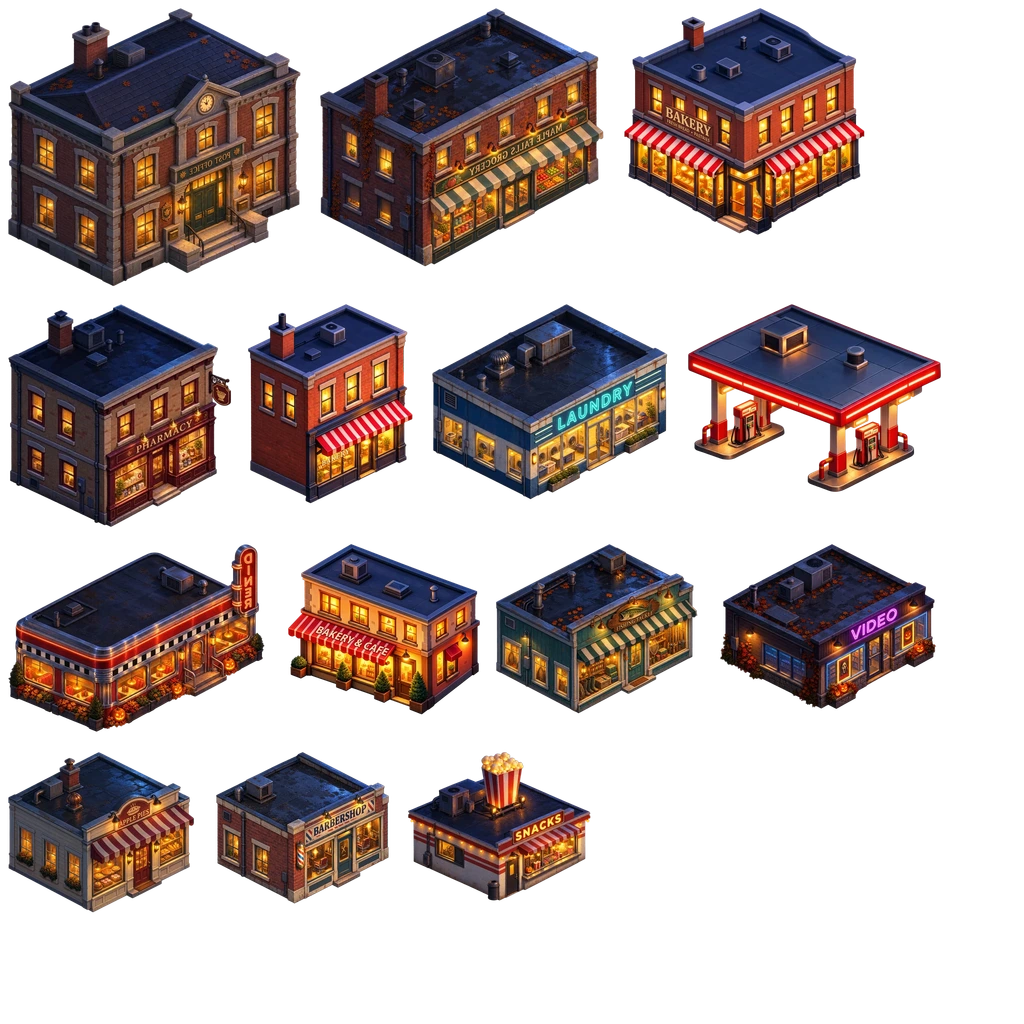
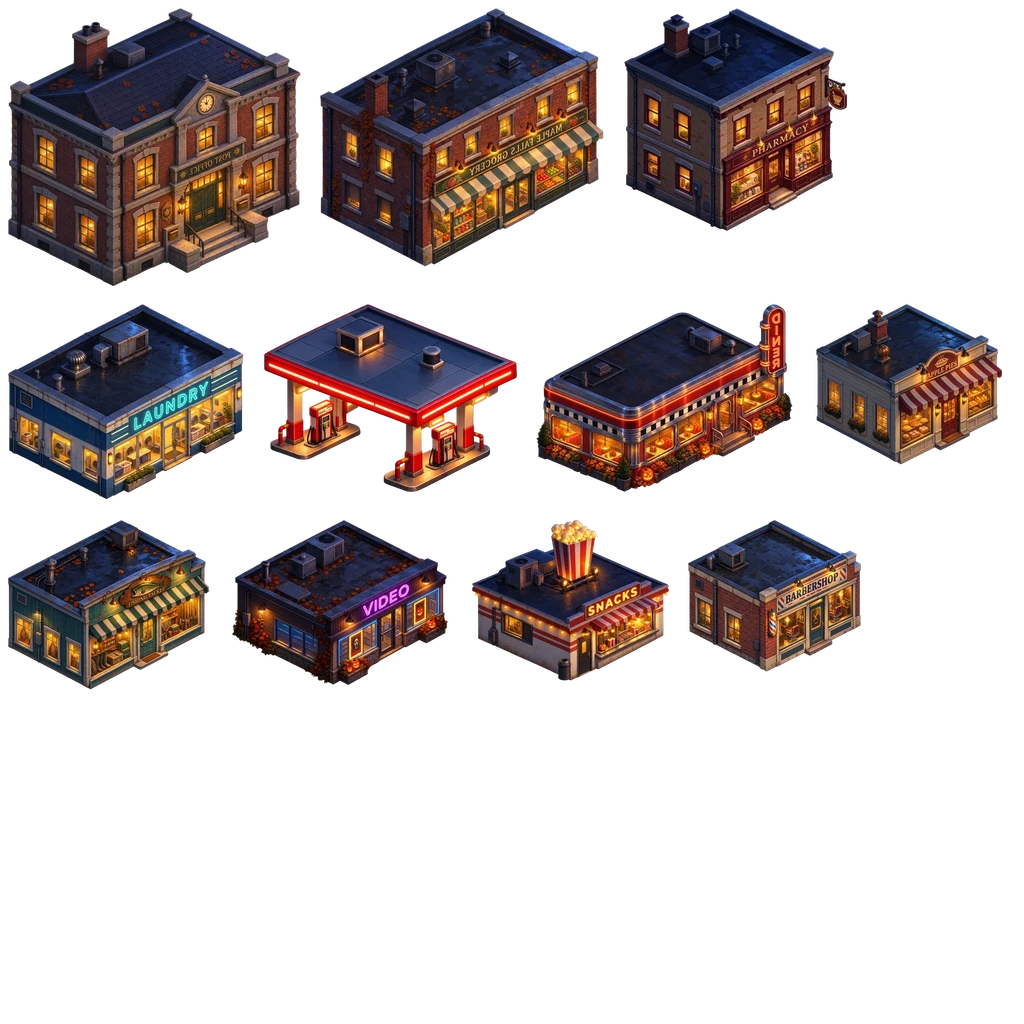
East-facing art re-packed at the owner's new sizes, without the fronts removed in the studio; compose digests re-pinned for the curation

diff --git a/src/game/east-library.ts b/src/game/east-library.ts
@@ -1,34 +1,31 @@
 // Generated by scripts/assets/prep-east.mjs. Source images are retained in art/east-facing.
 import type { LibItem } from './types';
+import { REMOVED_IDS } from './lots/scales';
+const removed = new Set(REMOVED_IDS);
 import e0m0 from '../assets/east/east-0-0.webp';
 import e0m1 from '../assets/east/east-0-1.webp';
 import e0m2 from '../assets/east/east-0-2.webp';
 import e0m3 from '../assets/east/east-0-3.webp';
 import e0m4 from '../assets/east/east-0-4.webp';
-import { REMOVED_IDS } from './lots/scales';
-const removed = new Set(REMOVED_IDS);
 const PAGES: string[][] = [[e0m0, e0m1, e0m2, e0m3, e0m4]];
 const ITEMS: LibItem[] = [
-  {"id":"east:ref:building-corner-shop","name":"Corner Shop (east)","cat":"Shops & services","kind":"venue","w":469.6,"h":443.5,"ax":234.8,"ay":330.7,"boxes":[{"hx":3.03,"hy":3.92,"dx":-0.15,"dy":-0.05}],"solid":2,"big":true,"door":true,"cost":29600,"glows":[{"x":352.5,"y":316.5,"r":30},{"x":397.6,"y":297.4,"r":33},{"x":267,"y":237.4,"r":36},{"x":95.4,"y":335.2,"r":34.5},{"x":224.8,"y":256.6,"r":34.5},{"x":356.3,"y":193.1,"r":33},{"x":47.2,"y":203.6,"r":31.5},{"x":93.4,"y":224.3,"r":31.5},{"x":310.4,"y":208.8,"r":27},{"x":203.1,"y":357.8,"r":30},{"x":146.7,"y":242.5,"r":22.5},{"x":48.2,"y":306,"r":24},{"x":304.7,"y":333.9,"r":19.5},{"x":146.8,"y":349.6,"r":22.5},{"x":401.1,"y":164.8,"r":25.5},{"x":431.9,"y":277.5,"r":28.5},{"x":277.3,"y":346.5,"r":31.5},{"x":244.3,"y":348.5,"r":16.5},{"x":241.6,"y":319.2,"r":16.5},{"x":244.3,"y":414.5,"r":22.5},{"x":255.8,"y":421.3,"r":24},{"x":351.2,"y":348.2,"r":21},{"x":364.8,"y":267.7,"r":12},{"x":420.5,"y":241.8,"r":12},{"x":438.8,"y":233.1,"r":12},{"x":346.1,"y":277.4,"r":12},{"x":327.1,"y":286.6,"r":10.5},{"x":314.8,"y":241.1,"r":15},{"x":401.9,"y":250.2,"r":10.5},{"x":383.6,"y":259.3,"r":12},{"x":309.3,"y":295.9,"r":10.5},{"x":291.1,"y":305.8,"r":10.5},{"x":455,"y":225.5,"r":12},{"x":305.8,"y":371.5,"r":13.5},{"x":205.3,"y":405.3,"r":13.5},{"x":236.9,"y":373.6,"r":13.5},{"x":240.7,"y":393.4,"r":10.5},{"x":144.7,"y":275.4,"r":13.5},{"x":403,"y":196.3,"r":12},{"x":46.2,"y":344,"r":12},{"x":146.6,"y":391.1,"r":12},{"x":208.1,"y":215.6,"r":9},{"x":303.9,"y":355.6,"r":4.5},{"x":276.7,"y":311.8,"r":4.5},{"x":150,"y":383.8,"r":7.5},{"x":55.5,"y":340.6,"r":3},{"x":252.1,"y":190.5,"r":3},{"x":201,"y":226.5,"r":3}],"tex":[0,0.609375,0.007813,0.844238,0.229492],"quad":[-0.24,0,469.6,443.47]},
-  {"id":"east:ref:building-corner-store","name":"Corner Store (east)","cat":"Shops & services","kind":"venue","w":405.5,"h":359.7,"ax":202.7,"ay":262.9,"boxes":[{"hx":4.18,"hy":1.81,"dx":-0.09,"dy":-0.13}],"solid":2,"big":true,"door":true,"cost":24080,"glows":[{"x":177.4,"y":210.7,"r":145.5},{"x":63.1,"y":110.4,"r":39},{"x":90.4,"y":130,"r":24},{"x":370.2,"y":215.2,"r":28.5},{"x":151.8,"y":150.2,"r":24},{"x":210.5,"y":171.7,"r":22.5},{"x":320.9,"y":253.8,"r":30},{"x":323.2,"y":182,"r":18},{"x":363.8,"y":157.4,"r":18},{"x":239.7,"y":329.7,"r":18},{"x":81.7,"y":266.7,"r":25.5},{"x":341,"y":256.5,"r":13.5},{"x":374.3,"y":149.3,"r":15},{"x":47,"y":229.5,"r":13.5},{"x":344.3,"y":279.5,"r":9},{"x":335,"y":171,"r":12},{"x":32.9,"y":248.4,"r":6},{"x":344,"y":236.1,"r":7.5},{"x":153.5,"y":186,"r":6},{"x":210.5,"y":200.3,"r":6},{"x":219.5,"y":306,"r":3},{"x":305,"y":106.5,"r":4.5},{"x":318,"y":290.5,"r":3},{"x":303.5,"y":93,"r":3},{"x":165.5,"y":184.5,"r":3},{"x":47,"y":210,"r":3},{"x":291.5,"y":238.5,"r":3},{"x":69.5,"y":255,"r":3},{"x":33.5,"y":264,"r":3},{"x":123.5,"y":294,"r":3},{"x":257,"y":309,"r":3},{"x":183.5,"y":310.5,"r":3},{"x":116,"y":37.5,"r":3},{"x":38,"y":127.5,"r":3},{"x":293,"y":187.5,"r":3},{"x":176,"y":193.5,"r":3},{"x":221,"y":220.5,"r":3},{"x":356,"y":232.5,"r":3},{"x":350,"y":268.5,"r":3},{"x":233,"y":286.5,"r":3},{"x":131,"y":289.5,"r":3},{"x":221,"y":295.5,"r":3},{"x":203,"y":316.5,"r":3}],"tex":[0,0.28125,0.53125,0.46875,0.697754],"quad":[0.5,0,405.5,359.65]},
-  {"id":"east:ref:building-gas-canopy","name":"Gas Canopy (east)","cat":"Shops & services","kind":"building","w":405.3,"h":301.8,"ax":202.7,"ay":205.2,"boxes":[{"hx":3.41,"hy":1.9,"dx":0,"dy":0.5}],"solid":2,"big":true,"door":false,"cost":22690,"glows":[{"x":315.4,"y":159.6,"r":78},{"x":128.2,"y":141.9,"r":116.9},{"x":84.7,"y":224.5,"r":54},{"x":96.7,"y":173.9,"r":31.5},{"x":261.4,"y":267.2,"r":25.5},{"x":171.3,"y":60.3,"r":22.5},{"x":244.3,"y":225,"r":36},{"x":56.6,"y":154,"r":24},{"x":317.6,"y":250.2,"r":25.5},{"x":296.4,"y":235.4,"r":13.5},{"x":51.8,"y":200.2,"r":18},{"x":200.8,"y":273.1,"r":9},{"x":135.9,"y":161.9,"r":6},{"x":222.1,"y":251.6,"r":6},{"x":129.4,"y":72,"r":6},{"x":279.4,"y":226.4,"r":4.5},{"x":221.6,"y":261.6,"r":4.5},{"x":225.4,"y":290.9,"r":6},{"x":83,"y":113.4,"r":4.5},{"x":32,"y":197.4,"r":4.5},{"x":343.8,"y":209.4,"r":4.5},{"x":289.9,"y":247.4,"r":4.5},{"x":141.4,"y":76.5,"r":3},{"x":42.5,"y":97.5,"r":3},{"x":72.5,"y":109.4,"r":3},{"x":26,"y":91.5,"r":3},{"x":35,"y":94.5,"r":3},{"x":397.8,"y":97.5,"r":3},{"x":388.8,"y":100.5,"r":3},{"x":50,"y":100.5,"r":3},{"x":59,"y":103.4,"r":3},{"x":65,"y":106.4,"r":3},{"x":106.9,"y":193.4,"r":3},{"x":124.9,"y":196.4,"r":3},{"x":118.9,"y":199.4,"r":3},{"x":109.9,"y":205.4,"r":3},{"x":247.9,"y":268.4,"r":3}],"tex":[0,0.671875,0.296875,0.918945,0.480469],"quad":[-0.34,0,405.3,301.43]},
-  {"id":"east:ref:building-grocery","name":"Grocery (east)","cat":"Shops & services","kind":"venue","w":534.5,"h":647.7,"ax":267.3,"ay":518.5,"boxes":[{"hx":2.96,"hy":5,"dx":-0.09,"dy":-0.18}],"solid":2,"big":true,"door":true,"cost":33340,"glows":[{"x":346.5,"y":266.6,"r":114},{"x":427.5,"y":402.8,"r":55.5},{"x":293.8,"y":465.1,"r":61.5},{"x":366.6,"y":454.9,"r":58.5},{"x":217.6,"y":337,"r":54},{"x":242.8,"y":505,"r":27},{"x":139.1,"y":319.5,"r":42},{"x":467.1,"y":365.3,"r":27},{"x":68.2,"y":290.6,"r":34.5},{"x":358.4,"y":408.6,"r":21},{"x":432.9,"y":282.8,"r":30},{"x":486.3,"y":351.2,"r":21},{"x":495.2,"y":230.8,"r":28.5},{"x":508.7,"y":341.2,"r":21},{"x":438.6,"y":473.2,"r":25.5},{"x":386.6,"y":548.6,"r":25.5},{"x":325.7,"y":529.7,"r":18},{"x":341.3,"y":166,"r":34.5},{"x":294.5,"y":559.5,"r":57},{"x":282.9,"y":526,"r":15},{"x":320.5,"y":195.2,"r":27},{"x":250.4,"y":542.9,"r":15},{"x":303.7,"y":266.4,"r":10.5},{"x":284.7,"y":550.9,"r":15},{"x":467.6,"y":238.6,"r":15},{"x":245,"y":572.8,"r":19.5},{"x":378.5,"y":351,"r":24},{"x":316.4,"y":513.4,"r":7.5},{"x":409.5,"y":459.8,"r":16.5},{"x":394.5,"y":160.5,"r":15},{"x":514.4,"y":372,"r":6},{"x":253,"y":227.5,"r":12},{"x":440,"y":489.8,"r":13.5},{"x":379.6,"y":214.1,"r":7.5},{"x":228.1,"y":469.1,"r":7.5},{"x":278,"y":215.4,"r":10.5},{"x":303.3,"y":236.8,"r":7.5},{"x":438,"y":141,"r":7.5},{"x":394,"y":199.5,"r":4.5},{"x":384.5,"y":202.5,"r":4.5},{"x":132.5,"y":373.5,"r":9},{"x":289.4,"y":189.9,"r":4.5},{"x":511.2,"y":95.3,"r":4.5},{"x":342.5,"y":195,"r":6},{"x":294.5,"y":253.5,"r":4.5},{"x":210.5,"y":267,"r":3},{"x":387.5,"y":327,"r":6},{"x":205.2,"y":392.3,"r":4.5}],"tex":[0,0.242188,0.296875,0.402832,0.491699],"quad":[-0.02,0,534.5,648.24]},
-  {"id":"east:town:bakery","name":"Rose's Bakery (east)","cat":"Shops & services","kind":"venue","w":396.6,"h":342.3,"ax":194.4,"ay":224.5,"boxes":[{"hx":2.71,"hy":3.12,"dx":0.64,"dy":0.64}],"solid":2,"big":true,"door":true,"cost":25220,"glows":[{"x":304.9,"y":127.4,"r":39},{"x":330.8,"y":207.1,"r":30},{"x":222.7,"y":162.2,"r":24},{"x":217.2,"y":289,"r":43.5},{"x":258.5,"y":239.3,"r":21},{"x":343.7,"y":234.4,"r":37.5},{"x":221.8,"y":252.5,"r":16.5},{"x":144.1,"y":251.7,"r":13.5},{"x":178.1,"y":272,"r":19.5},{"x":195.1,"y":264.2,"r":9},{"x":334.7,"y":136.7,"r":9},{"x":96.2,"y":225.2,"r":7.5},{"x":229.3,"y":265.8,"r":10.5},{"x":39.4,"y":193.8,"r":7.5},{"x":236.1,"y":132.9,"r":7.5},{"x":277.2,"y":235,"r":7.5},{"x":216.6,"y":241,"r":6},{"x":272.4,"y":123,"r":6},{"x":219.6,"y":313.6,"r":12},{"x":380.1,"y":190.5,"r":10.5},{"x":356.1,"y":252.7,"r":10.5},{"x":191,"y":327.7,"r":10.5},{"x":192.5,"y":251.6,"r":6},{"x":192.5,"y":279.6,"r":6},{"x":261.1,"y":292.1,"r":6},{"x":277.5,"y":216.4,"r":4.5},{"x":149.8,"y":97.5,"r":4.5},{"x":249.6,"y":117,"r":6},{"x":271.3,"y":143.3,"r":4.5},{"x":370.3,"y":177.8,"r":4.5},{"x":290.1,"y":228.8,"r":4.5},{"x":333.6,"y":264.1,"r":6},{"x":315.6,"y":268.6,"r":6},{"x":240.6,"y":303.1,"r":6},{"x":173,"y":314.6,"r":4.5},{"x":255.6,"y":147,"r":3},{"x":255.6,"y":157.5,"r":3},{"x":371.1,"y":192,"r":3},{"x":45.5,"y":210.1,"r":3},{"x":342.6,"y":223.6,"r":3},{"x":330.6,"y":229.6,"r":3},{"x":276.6,"y":250.6,"r":3},{"x":137,"y":22.5,"r":3},{"x":65,"y":88.5,"r":3},{"x":269.1,"y":91.5,"r":3},{"x":365.1,"y":112.5,"r":3},{"x":263.1,"y":121.5,"r":3},{"x":263.1,"y":127.5,"r":3}],"tex":[0,0.007813,0.734375,0.189453,0.891113],"quad":[-0.49,0,396.6,342.65]},
-  {"id":"east:town:barber","name":"Clip Joint Barbers (east)","cat":"Shops & services","kind":"venue","w":389.8,"h":341.2,"ax":194.7,"ay":216.3,"boxes":[{"hx":2.62,"hy":3.2,"dx":0.86,"dy":0.83}],"solid":2,"big":true,"door":true,"cost":25130,"glows":[{"x":280.3,"y":149.4,"r":75},{"x":223.5,"y":222.1,"r":61.5},{"x":331.6,"y":164.3,"r":34.5},{"x":322.1,"y":230.6,"r":36},{"x":268.2,"y":250,"r":40.5},{"x":235.7,"y":278.8,"r":28.5},{"x":107.6,"y":236,"r":10.5},{"x":46.3,"y":210.2,"r":18},{"x":265.6,"y":131.9,"r":19.5},{"x":101.2,"y":275.1,"r":15},{"x":297.7,"y":210.5,"r":18},{"x":201,"y":195.7,"r":12},{"x":289.1,"y":288.2,"r":15},{"x":36.2,"y":243.4,"r":12},{"x":182.4,"y":315.3,"r":7.5},{"x":179,"y":179.8,"r":6},{"x":288.2,"y":216.5,"r":9},{"x":252.8,"y":298.3,"r":7.5},{"x":236.6,"y":307,"r":7.5},{"x":271.7,"y":83.2,"r":6},{"x":364.3,"y":152.9,"r":6},{"x":323.5,"y":206.5,"r":6},{"x":287.9,"y":241,"r":12},{"x":332.6,"y":100.9,"r":6},{"x":253.4,"y":217.9,"r":4.5},{"x":373.3,"y":178.4,"r":7.5},{"x":337.3,"y":194.6,"r":7.5},{"x":85.5,"y":232.4,"r":7.5},{"x":241.4,"y":239,"r":7.5},{"x":230,"y":251,"r":4.5},{"x":292.3,"y":276.4,"r":4.5},{"x":295.3,"y":146.9,"r":3},{"x":320.8,"y":194.9,"r":3},{"x":326.8,"y":226.4,"r":3},{"x":113.9,"y":253.4,"r":3},{"x":194.9,"y":304.3,"r":3},{"x":196.4,"y":314.8,"r":3},{"x":218.9,"y":316.3,"r":3},{"x":292.3,"y":91.5,"r":3},{"x":373.3,"y":196.4,"r":3},{"x":286.4,"y":199.4,"r":3},{"x":361.3,"y":217.4,"r":3},{"x":175.4,"y":229.4,"r":3},{"x":286.4,"y":232.4,"r":3},{"x":223.4,"y":247.4,"r":3},{"x":301.3,"y":271.4,"r":3},{"x":109.4,"y":271.4,"r":3},{"x":277.4,"y":283.4,"r":3}],"tex":[0,0.210938,0.734375,0.379883,0.882324],"quad":[0.29,0,389.8,341.1]},
-  {"id":"east:town:fish_tackle","name":"Pike & Pine Outfitters (east)","cat":"Shops & services","kind":"venue","w":462.2,"h":389.5,"ax":226.6,"ay":257.2,"boxes":[{"hx":2.85,"hy":3.94,"dx":0.58,"dy":0.61}],"solid":2,"big":true,"door":true,"cost":28770,"glows":[{"x":249.8,"y":328.4,"r":60},{"x":34.3,"y":254.9,"r":34.5},{"x":393.5,"y":263.9,"r":46.5},{"x":320.8,"y":245,"r":19.5},{"x":99.4,"y":278.2,"r":22.5},{"x":254.7,"y":229.1,"r":16.5},{"x":419.5,"y":192.2,"r":13.5},{"x":149.1,"y":304.4,"r":21},{"x":410.3,"y":156.9,"r":16.5},{"x":389.9,"y":168.4,"r":15},{"x":280.7,"y":220.6,"r":16.5},{"x":233.1,"y":242.2,"r":13.5},{"x":278.5,"y":271.3,"r":21},{"x":336.3,"y":317.2,"r":31.5},{"x":310.6,"y":167.6,"r":27},{"x":327.6,"y":198,"r":15},{"x":319.1,"y":142.5,"r":15},{"x":304.9,"y":209.9,"r":13.5},{"x":370.1,"y":179.7,"r":13.5},{"x":350.4,"y":189.8,"r":13.5},{"x":393.2,"y":130.8,"r":15},{"x":242,"y":199.6,"r":13.5},{"x":196.9,"y":295.3,"r":16.5},{"x":247.5,"y":310,"r":15},{"x":361.5,"y":227.6,"r":13.5},{"x":442.7,"y":205.6,"r":28.5},{"x":100.9,"y":318.3,"r":12},{"x":151,"y":343.1,"r":10.5},{"x":436.7,"y":204.1,"r":24},{"x":69.5,"y":220.6,"r":12},{"x":264.1,"y":280.6,"r":9},{"x":216.7,"y":261.2,"r":7.5},{"x":381.7,"y":243.4,"r":7.5},{"x":320.5,"y":277,"r":10.5},{"x":231.4,"y":284.5,"r":10.5},{"x":432.7,"y":155.2,"r":12},{"x":372.5,"y":209.3,"r":10.5},{"x":53.8,"y":229.6,"r":7.5},{"x":257.1,"y":265.1,"r":4.5},{"x":91.5,"y":247,"r":7.5},{"x":298.6,"y":280.6,"r":7.5},{"x":282.9,"y":74.3,"r":4.5},{"x":384.9,"y":217.6,"r":4.5},{"x":70.5,"y":261.1,"r":4.5},{"x":270.1,"y":297.1,"r":6},{"x":343.6,"y":241.6,"r":4.5},{"x":361.7,"y":252.6,"r":4.5},{"x":316.6,"y":314.6,"r":4.5}],"tex":[0,0.484375,0.53125,0.681152,0.696777],"quad":[-0.33,0,462.2,389.08]},
+  {"id":"east:ref:building-gas-canopy","name":"Gas Canopy (east)","cat":"Shops & services","kind":"building","w":405.3,"h":301.8,"ax":202.7,"ay":205.2,"boxes":[{"hx":3.41,"hy":1.9,"dx":0,"dy":0.5}],"solid":2,"big":true,"door":false,"cost":22690,"glows":[{"x":315.4,"y":159.6,"r":78},{"x":128.2,"y":141.9,"r":116.9},{"x":84.7,"y":224.5,"r":54},{"x":96.7,"y":173.9,"r":31.5},{"x":261.4,"y":267.2,"r":25.5},{"x":171.3,"y":60.3,"r":22.5},{"x":244.3,"y":225,"r":36},{"x":56.6,"y":154,"r":24},{"x":317.6,"y":250.2,"r":25.5},{"x":296.4,"y":235.4,"r":13.5},{"x":51.8,"y":200.2,"r":18},{"x":200.8,"y":273.1,"r":9},{"x":135.9,"y":161.9,"r":6},{"x":222.1,"y":251.6,"r":6},{"x":129.4,"y":72,"r":6},{"x":279.4,"y":226.4,"r":4.5},{"x":221.6,"y":261.6,"r":4.5},{"x":225.4,"y":290.9,"r":6},{"x":83,"y":113.4,"r":4.5},{"x":32,"y":197.4,"r":4.5},{"x":343.8,"y":209.4,"r":4.5},{"x":289.9,"y":247.4,"r":4.5},{"x":141.4,"y":76.5,"r":3},{"x":42.5,"y":97.5,"r":3},{"x":72.5,"y":109.4,"r":3},{"x":26,"y":91.5,"r":3},{"x":35,"y":94.5,"r":3},{"x":397.8,"y":97.5,"r":3},{"x":388.8,"y":100.5,"r":3},{"x":50,"y":100.5,"r":3},{"x":59,"y":103.4,"r":3},{"x":65,"y":106.4,"r":3},{"x":106.9,"y":193.4,"r":3},{"x":124.9,"y":196.4,"r":3},{"x":118.9,"y":199.4,"r":3},{"x":109.9,"y":205.4,"r":3},{"x":247.9,"y":268.4,"r":3}],"tex":[0,0.257813,0.296875,0.504883,0.480469],"quad":[-0.34,0,405.3,301.43]},
+  {"id":"east:town:bakery","name":"Rose's Bakery (east)","cat":"Shops & services","kind":"venue","w":396.6,"h":342.3,"ax":194.4,"ay":224.5,"boxes":[{"hx":2.71,"hy":3.12,"dx":0.64,"dy":0.64}],"solid":2,"big":true,"door":true,"cost":25220,"glows":[{"x":304.9,"y":127.4,"r":39},{"x":330.8,"y":207.1,"r":30},{"x":222.7,"y":162.2,"r":24},{"x":217.2,"y":289,"r":43.5},{"x":258.5,"y":239.3,"r":21},{"x":343.7,"y":234.4,"r":37.5},{"x":221.8,"y":252.5,"r":16.5},{"x":144.1,"y":251.7,"r":13.5},{"x":178.1,"y":272,"r":19.5},{"x":195.1,"y":264.2,"r":9},{"x":334.7,"y":136.7,"r":9},{"x":96.2,"y":225.2,"r":7.5},{"x":229.3,"y":265.8,"r":10.5},{"x":39.4,"y":193.8,"r":7.5},{"x":236.1,"y":132.9,"r":7.5},{"x":277.2,"y":235,"r":7.5},{"x":216.6,"y":241,"r":6},{"x":272.4,"y":123,"r":6},{"x":219.6,"y":313.6,"r":12},{"x":380.1,"y":190.5,"r":10.5},{"x":356.1,"y":252.7,"r":10.5},{"x":191,"y":327.7,"r":10.5},{"x":192.5,"y":251.6,"r":6},{"x":192.5,"y":279.6,"r":6},{"x":261.1,"y":292.1,"r":6},{"x":277.5,"y":216.4,"r":4.5},{"x":149.8,"y":97.5,"r":4.5},{"x":249.6,"y":117,"r":6},{"x":271.3,"y":143.3,"r":4.5},{"x":370.3,"y":177.8,"r":4.5},{"x":290.1,"y":228.8,"r":4.5},{"x":333.6,"y":264.1,"r":6},{"x":315.6,"y":268.6,"r":6},{"x":240.6,"y":303.1,"r":6},{"x":173,"y":314.6,"r":4.5},{"x":255.6,"y":147,"r":3},{"x":255.6,"y":157.5,"r":3},{"x":371.1,"y":192,"r":3},{"x":45.5,"y":210.1,"r":3},{"x":342.6,"y":223.6,"r":3},{"x":330.6,"y":229.6,"r":3},{"x":276.6,"y":250.6,"r":3},{"x":137,"y":22.5,"r":3},{"x":65,"y":88.5,"r":3},{"x":269.1,"y":91.5,"r":3},{"x":365.1,"y":112.5,"r":3},{"x":263.1,"y":121.5,"r":3},{"x":263.1,"y":127.5,"r":3}],"tex":[0,0.796875,0.296875,0.978516,0.453613],"quad":[-0.49,0,396.6,342.65]},
+  {"id":"east:town:barber","name":"Clip Joint Barbers (east)","cat":"Shops & services","kind":"venue","w":389.8,"h":341.2,"ax":194.7,"ay":216.3,"boxes":[{"hx":2.62,"hy":3.2,"dx":0.86,"dy":0.83}],"solid":2,"big":true,"door":true,"cost":25130,"glows":[{"x":280.3,"y":149.4,"r":75},{"x":223.5,"y":222.1,"r":61.5},{"x":331.6,"y":164.3,"r":34.5},{"x":322.1,"y":230.6,"r":36},{"x":268.2,"y":250,"r":40.5},{"x":235.7,"y":278.8,"r":28.5},{"x":107.6,"y":236,"r":10.5},{"x":46.3,"y":210.2,"r":18},{"x":265.6,"y":131.9,"r":19.5},{"x":101.2,"y":275.1,"r":15},{"x":297.7,"y":210.5,"r":18},{"x":201,"y":195.7,"r":12},{"x":289.1,"y":288.2,"r":15},{"x":36.2,"y":243.4,"r":12},{"x":182.4,"y":315.3,"r":7.5},{"x":179,"y":179.8,"r":6},{"x":288.2,"y":216.5,"r":9},{"x":252.8,"y":298.3,"r":7.5},{"x":236.6,"y":307,"r":7.5},{"x":271.7,"y":83.2,"r":6},{"x":364.3,"y":152.9,"r":6},{"x":323.5,"y":206.5,"r":6},{"x":287.9,"y":241,"r":12},{"x":332.6,"y":100.9,"r":6},{"x":253.4,"y":217.9,"r":4.5},{"x":373.3,"y":178.4,"r":7.5},{"x":337.3,"y":194.6,"r":7.5},{"x":85.5,"y":232.4,"r":7.5},{"x":241.4,"y":239,"r":7.5},{"x":230,"y":251,"r":4.5},{"x":292.3,"y":276.4,"r":4.5},{"x":295.3,"y":146.9,"r":3},{"x":320.8,"y":194.9,"r":3},{"x":326.8,"y":226.4,"r":3},{"x":113.9,"y":253.4,"r":3},{"x":194.9,"y":304.3,"r":3},{"x":196.4,"y":314.8,"r":3},{"x":218.9,"y":316.3,"r":3},{"x":292.3,"y":91.5,"r":3},{"x":373.3,"y":196.4,"r":3},{"x":286.4,"y":199.4,"r":3},{"x":361.3,"y":217.4,"r":3},{"x":175.4,"y":229.4,"r":3},{"x":286.4,"y":232.4,"r":3},{"x":223.4,"y":247.4,"r":3},{"x":301.3,"y":271.4,"r":3},{"x":109.4,"y":271.4,"r":3},{"x":277.4,"y":283.4,"r":3}],"tex":[0,0.671875,0.507813,0.84082,0.655762],"quad":[0.29,0,389.8,341.1]},
+  {"id":"east:town:fish_tackle","name":"Pike & Pine Outfitters (east)","cat":"Shops & services","kind":"venue","w":462.2,"h":389.5,"ax":226.6,"ay":257.2,"boxes":[{"hx":2.85,"hy":3.94,"dx":0.58,"dy":0.61}],"solid":2,"big":true,"door":true,"cost":28770,"glows":[{"x":249.8,"y":328.4,"r":60},{"x":34.3,"y":254.9,"r":34.5},{"x":393.5,"y":263.9,"r":46.5},{"x":320.8,"y":245,"r":19.5},{"x":99.4,"y":278.2,"r":22.5},{"x":254.7,"y":229.1,"r":16.5},{"x":419.5,"y":192.2,"r":13.5},{"x":149.1,"y":304.4,"r":21},{"x":410.3,"y":156.9,"r":16.5},{"x":389.9,"y":168.4,"r":15},{"x":280.7,"y":220.6,"r":16.5},{"x":233.1,"y":242.2,"r":13.5},{"x":278.5,"y":271.3,"r":21},{"x":336.3,"y":317.2,"r":31.5},{"x":310.6,"y":167.6,"r":27},{"x":327.6,"y":198,"r":15},{"x":319.1,"y":142.5,"r":15},{"x":304.9,"y":209.9,"r":13.5},{"x":370.1,"y":179.7,"r":13.5},{"x":350.4,"y":189.8,"r":13.5},{"x":393.2,"y":130.8,"r":15},{"x":242,"y":199.6,"r":13.5},{"x":196.9,"y":295.3,"r":16.5},{"x":247.5,"y":310,"r":15},{"x":361.5,"y":227.6,"r":13.5},{"x":442.7,"y":205.6,"r":28.5},{"x":100.9,"y":318.3,"r":12},{"x":151,"y":343.1,"r":10.5},{"x":436.7,"y":204.1,"r":24},{"x":69.5,"y":220.6,"r":12},{"x":264.1,"y":280.6,"r":9},{"x":216.7,"y":261.2,"r":7.5},{"x":381.7,"y":243.4,"r":7.5},{"x":320.5,"y":277,"r":10.5},{"x":231.4,"y":284.5,"r":10.5},{"x":432.7,"y":155.2,"r":12},{"x":372.5,"y":209.3,"r":10.5},{"x":53.8,"y":229.6,"r":7.5},{"x":257.1,"y":265.1,"r":4.5},{"x":91.5,"y":247,"r":7.5},{"x":298.6,"y":280.6,"r":7.5},{"x":282.9,"y":74.3,"r":4.5},{"x":384.9,"y":217.6,"r":4.5},{"x":70.5,"y":261.1,"r":4.5},{"x":270.1,"y":297.1,"r":6},{"x":343.6,"y":241.6,"r":4.5},{"x":361.7,"y":252.6,"r":4.5},{"x":316.6,"y":314.6,"r":4.5}],"tex":[0,0.007813,0.507813,0.20459,0.67334],"quad":[-0.33,0,462.2,389.08]},
   {"id":"east:town:grocery","name":"Maple Family Market (east)","cat":"Shops & services","kind":"venue","w":522.3,"h":476.3,"ax":260,"ay":288.9,"boxes":[{"hx":2.9,"hy":4.81,"dx":1.79,"dy":1.88}],"solid":2,"big":true,"door":true,"cost":32250,"glows":[{"x":423.8,"y":313.5,"r":27},{"x":434.1,"y":266.7,"r":27},{"x":121.6,"y":286.8,"r":25.5},{"x":263.9,"y":343.7,"r":18},{"x":401.6,"y":274.2,"r":19.5},{"x":344.8,"y":301.4,"r":18},{"x":289.9,"y":327.5,"r":18},{"x":457.7,"y":247.6,"r":18},{"x":320,"y":275.3,"r":16.5},{"x":317.9,"y":315,"r":16.5},{"x":371,"y":284.8,"r":16.5},{"x":409.6,"y":184.4,"r":13.5},{"x":481.9,"y":232.2,"r":16.5},{"x":465.2,"y":158.5,"r":13.5},{"x":225.8,"y":277.3,"r":13.5},{"x":62.2,"y":252.6,"r":16.5},{"x":428,"y":228.1,"r":18},{"x":235,"y":356,"r":15},{"x":278.1,"y":250.3,"r":13.5},{"x":339.9,"y":218.2,"r":10.5},{"x":392.5,"y":233.5,"r":16.5},{"x":378.9,"y":252.3,"r":16.5},{"x":319.3,"y":353.2,"r":13.5},{"x":121.2,"y":388.9,"r":13.5},{"x":257,"y":300.8,"r":24},{"x":262.7,"y":373,"r":18},{"x":447.3,"y":204.6,"r":22.5},{"x":361.9,"y":387.8,"r":19.5},{"x":286.6,"y":298.5,"r":10.5},{"x":264,"y":397.2,"r":18},{"x":346.2,"y":371.1,"r":9},{"x":351,"y":336.4,"r":9},{"x":374.2,"y":331.2,"r":12},{"x":478.4,"y":272.9,"r":9},{"x":232.5,"y":386.6,"r":9},{"x":265.9,"y":414.1,"r":18},{"x":217.9,"y":415.3,"r":9},{"x":221.4,"y":368.1,"r":7.5},{"x":227.5,"y":434.7,"r":13.5},{"x":345.1,"y":241.1,"r":12},{"x":340.9,"y":270.8,"r":7.5},{"x":294.7,"y":373.7,"r":7.5},{"x":302.8,"y":394.3,"r":13.5},{"x":355.1,"y":262.4,"r":7.5},{"x":226.9,"y":301,"r":7.5},{"x":412,"y":207.6,"r":7.5},{"x":300.6,"y":291.5,"r":7.5},{"x":296.7,"y":381.9,"r":9}],"tex":[0,0.3125,0.007813,0.589355,0.260254],"quad":[1.17,0.92,522.3,476.1]},
-  {"id":"east:town:laundromat","name":"Spin Cycle Laundry (east)","cat":"Shops & services","kind":"venue","w":452.8,"h":377.3,"ax":226.6,"ay":224.1,"boxes":[{"hx":2.82,"hy":3.94,"dx":1.26,"dy":1.26}],"solid":2,"big":true,"door":true,"cost":28620,"glows":[{"x":211.6,"y":288.6,"r":39},{"x":272.2,"y":259.1,"r":31.5},{"x":412.6,"y":187.4,"r":24},{"x":372,"y":202.6,"r":19.5},{"x":308.2,"y":261.5,"r":27},{"x":225.9,"y":320.8,"r":24},{"x":367,"y":248.6,"r":22.5},{"x":277.5,"y":300.6,"r":22.5},{"x":33.8,"y":240.2,"r":22.5},{"x":102.3,"y":262.1,"r":18},{"x":320.5,"y":221.3,"r":21},{"x":157.1,"y":293.5,"r":19.5},{"x":104.9,"y":301.6,"r":18},{"x":322.5,"y":307.1,"r":21},{"x":332.6,"y":234.1,"r":13.5},{"x":411.6,"y":238.3,"r":18},{"x":354.1,"y":175.3,"r":13.5},{"x":287.6,"y":208.3,"r":13.5},{"x":331.1,"y":283.7,"r":12},{"x":239.1,"y":292.8,"r":9},{"x":264.9,"y":216.2,"r":9},{"x":383.7,"y":224.5,"r":7.5},{"x":159.3,"y":332.7,"r":12},{"x":445.7,"y":173.4,"r":9},{"x":39.3,"y":273.6,"r":13.5},{"x":244.6,"y":225.7,"r":9},{"x":53.6,"y":239.8,"r":9},{"x":310.1,"y":198.2,"r":7.5},{"x":396.7,"y":219.2,"r":7.5},{"x":142.4,"y":307.4,"r":13.5},{"x":307.4,"y":302,"r":9},{"x":379.3,"y":160.4,"r":10.5},{"x":331.8,"y":192.1,"r":7.5},{"x":436.3,"y":193.4,"r":7.5},{"x":191.6,"y":237.2,"r":6},{"x":327.4,"y":179.4,"r":3},{"x":301.4,"y":199.4,"r":4.5},{"x":43.5,"y":229.4,"r":4.5},{"x":143.9,"y":105,"r":3},{"x":134.9,"y":106.5,"r":3},{"x":133.4,"y":122.9,"r":3},{"x":371.8,"y":173.9,"r":3},{"x":337.4,"y":173.9,"r":3},{"x":436.3,"y":176.9,"r":3},{"x":316.4,"y":185.9,"r":3},{"x":260.9,"y":230.9,"r":3},{"x":208.4,"y":230.9,"r":3},{"x":251.9,"y":338.9,"r":3}],"tex":[0,0.421875,0.296875,0.651855,0.487793],"quad":[-0.3,0,452.8,376.14]},
-  {"id":"east:town:pharmacy","name":"Maple Pharmacy (east)","cat":"Shops & services","kind":"venue","w":398.3,"h":398,"ax":197.9,"ay":298.2,"boxes":[{"hx":2.72,"hy":2.86,"dx":0.04,"dy":0.34}],"solid":2,"big":true,"door":true,"cost":24360,"glows":[{"x":327,"y":250.9,"r":31.5},{"x":224.4,"y":302.2,"r":24},{"x":223.8,"y":337.2,"r":27},{"x":208.1,"y":214.3,"r":13.5},{"x":326.2,"y":289.2,"r":24},{"x":268.3,"y":183.7,"r":13.5},{"x":303.8,"y":221.3,"r":13.5},{"x":241.3,"y":249.7,"r":15},{"x":106.4,"y":210.4,"r":12},{"x":56,"y":187.4,"r":15},{"x":281.9,"y":334.7,"r":16.5},{"x":110.9,"y":302.7,"r":10.5},{"x":321.7,"y":154.3,"r":7.5},{"x":199.1,"y":307.5,"r":10.5},{"x":293.9,"y":338.9,"r":15},{"x":272.6,"y":238.4,"r":7.5},{"x":290.1,"y":276.6,"r":10.5},{"x":286.1,"y":231.6,"r":7.5},{"x":338.3,"y":196.4,"r":7.5},{"x":325.7,"y":214.4,"r":7.5},{"x":258.5,"y":245.9,"r":6},{"x":324.8,"y":184.4,"r":7.5},{"x":263.2,"y":288.9,"r":6},{"x":270.9,"y":210.8,"r":7.5},{"x":212.1,"y":239.6,"r":6},{"x":261.3,"y":263.6,"r":4.5},{"x":267.9,"y":275.1,"r":4.5},{"x":56,"y":267.4,"r":3},{"x":51,"y":282.4,"r":3},{"x":107.9,"y":320.3,"r":3},{"x":329.3,"y":274.4,"r":3},{"x":192.9,"y":323.8,"r":3},{"x":381.8,"y":142.4,"r":3},{"x":375.8,"y":157.4,"r":3},{"x":387.8,"y":160.4,"r":3},{"x":384.8,"y":166.4,"r":3},{"x":315.8,"y":166.4,"r":3},{"x":324.8,"y":223.4,"r":3},{"x":210.9,"y":232.4,"r":3},{"x":270.9,"y":283.4,"r":3},{"x":288.9,"y":298.4,"r":3},{"x":267.9,"y":298.4,"r":3},{"x":318.8,"y":322.3,"r":3}],"tex":[0,0.007813,0.296875,0.226074,0.515137],"quad":[0.14,0,398.3,398.16]},
+  {"id":"east:town:laundromat","name":"Spin Cycle Laundry (east)","cat":"Shops & services","kind":"venue","w":452.8,"h":377.3,"ax":226.6,"ay":224.1,"boxes":[{"hx":2.82,"hy":3.94,"dx":1.26,"dy":1.26}],"solid":2,"big":true,"door":true,"cost":28620,"glows":[{"x":211.6,"y":288.6,"r":39},{"x":272.2,"y":259.1,"r":31.5},{"x":412.6,"y":187.4,"r":24},{"x":372,"y":202.6,"r":19.5},{"x":308.2,"y":261.5,"r":27},{"x":225.9,"y":320.8,"r":24},{"x":367,"y":248.6,"r":22.5},{"x":277.5,"y":300.6,"r":22.5},{"x":33.8,"y":240.2,"r":22.5},{"x":102.3,"y":262.1,"r":18},{"x":320.5,"y":221.3,"r":21},{"x":157.1,"y":293.5,"r":19.5},{"x":104.9,"y":301.6,"r":18},{"x":322.5,"y":307.1,"r":21},{"x":332.6,"y":234.1,"r":13.5},{"x":411.6,"y":238.3,"r":18},{"x":354.1,"y":175.3,"r":13.5},{"x":287.6,"y":208.3,"r":13.5},{"x":331.1,"y":283.7,"r":12},{"x":239.1,"y":292.8,"r":9},{"x":264.9,"y":216.2,"r":9},{"x":383.7,"y":224.5,"r":7.5},{"x":159.3,"y":332.7,"r":12},{"x":445.7,"y":173.4,"r":9},{"x":39.3,"y":273.6,"r":13.5},{"x":244.6,"y":225.7,"r":9},{"x":53.6,"y":239.8,"r":9},{"x":310.1,"y":198.2,"r":7.5},{"x":396.7,"y":219.2,"r":7.5},{"x":142.4,"y":307.4,"r":13.5},{"x":307.4,"y":302,"r":9},{"x":379.3,"y":160.4,"r":10.5},{"x":331.8,"y":192.1,"r":7.5},{"x":436.3,"y":193.4,"r":7.5},{"x":191.6,"y":237.2,"r":6},{"x":327.4,"y":179.4,"r":3},{"x":301.4,"y":199.4,"r":4.5},{"x":43.5,"y":229.4,"r":4.5},{"x":143.9,"y":105,"r":3},{"x":134.9,"y":106.5,"r":3},{"x":133.4,"y":122.9,"r":3},{"x":371.8,"y":173.9,"r":3},{"x":337.4,"y":173.9,"r":3},{"x":436.3,"y":176.9,"r":3},{"x":316.4,"y":185.9,"r":3},{"x":260.9,"y":230.9,"r":3},{"x":208.4,"y":230.9,"r":3},{"x":251.9,"y":338.9,"r":3}],"tex":[0,0.007813,0.296875,0.237793,0.487793],"quad":[-0.3,0,452.8,376.14]},
+  {"id":"east:town:pharmacy","name":"Maple Pharmacy (east)","cat":"Shops & services","kind":"venue","w":398.3,"h":398,"ax":197.9,"ay":298.2,"boxes":[{"hx":2.72,"hy":2.86,"dx":0.04,"dy":0.34}],"solid":2,"big":true,"door":true,"cost":24360,"glows":[{"x":327,"y":250.9,"r":31.5},{"x":224.4,"y":302.2,"r":24},{"x":223.8,"y":337.2,"r":27},{"x":208.1,"y":214.3,"r":13.5},{"x":326.2,"y":289.2,"r":24},{"x":268.3,"y":183.7,"r":13.5},{"x":303.8,"y":221.3,"r":13.5},{"x":241.3,"y":249.7,"r":15},{"x":106.4,"y":210.4,"r":12},{"x":56,"y":187.4,"r":15},{"x":281.9,"y":334.7,"r":16.5},{"x":110.9,"y":302.7,"r":10.5},{"x":321.7,"y":154.3,"r":7.5},{"x":199.1,"y":307.5,"r":10.5},{"x":293.9,"y":338.9,"r":15},{"x":272.6,"y":238.4,"r":7.5},{"x":290.1,"y":276.6,"r":10.5},{"x":286.1,"y":231.6,"r":7.5},{"x":338.3,"y":196.4,"r":7.5},{"x":325.7,"y":214.4,"r":7.5},{"x":258.5,"y":245.9,"r":6},{"x":324.8,"y":184.4,"r":7.5},{"x":263.2,"y":288.9,"r":6},{"x":270.9,"y":210.8,"r":7.5},{"x":212.1,"y":239.6,"r":6},{"x":261.3,"y":263.6,"r":4.5},{"x":267.9,"y":275.1,"r":4.5},{"x":56,"y":267.4,"r":3},{"x":51,"y":282.4,"r":3},{"x":107.9,"y":320.3,"r":3},{"x":329.3,"y":274.4,"r":3},{"x":192.9,"y":323.8,"r":3},{"x":381.8,"y":142.4,"r":3},{"x":375.8,"y":157.4,"r":3},{"x":387.8,"y":160.4,"r":3},{"x":384.8,"y":166.4,"r":3},{"x":315.8,"y":166.4,"r":3},{"x":324.8,"y":223.4,"r":3},{"x":210.9,"y":232.4,"r":3},{"x":270.9,"y":283.4,"r":3},{"x":288.9,"y":298.4,"r":3},{"x":267.9,"y":298.4,"r":3},{"x":318.8,"y":322.3,"r":3}],"tex":[0,0.609375,0.007813,0.827637,0.226074],"quad":[0.14,0,398.3,398.16]},
   {"id":"east:town:postoffice","name":"Maple Falls Post Office (east)","cat":"Shops & services","kind":"venue","w":456.5,"h":434.4,"ax":231.9,"ay":290.3,"boxes":[{"hx":2.58,"hy":4.45,"dx":1.23,"dy":1.2}],"solid":2,"big":true,"door":true,"cost":29100,"glows":[{"x":399,"y":177.6,"r":16.5},{"x":213.6,"y":339.5,"r":16.5},{"x":398.5,"y":260.8,"r":18},{"x":214.7,"y":254.9,"r":16.5},{"x":279.8,"y":371.1,"r":18},{"x":309.5,"y":149.3,"r":12},{"x":272.5,"y":309.4,"r":13.5},{"x":59.8,"y":224.2,"r":16.5},{"x":383.6,"y":325.3,"r":15},{"x":307.4,"y":201.2,"r":10.5},{"x":320.9,"y":352.8,"r":22.5},{"x":125.5,"y":253,"r":10.5},{"x":361.4,"y":271.6,"r":10.5},{"x":309.9,"y":269.5,"r":13.5},{"x":125.9,"y":343.4,"r":12},{"x":324.2,"y":366.5,"r":19.5},{"x":62.7,"y":310.9,"r":10.5},{"x":400.4,"y":294.6,"r":16.5},{"x":215.9,"y":372.9,"r":18},{"x":325.3,"y":381.4,"r":19.5},{"x":330.6,"y":283,"r":10.5},{"x":399.4,"y":206,"r":12},{"x":213.4,"y":284.3,"r":12},{"x":124.7,"y":375.9,"r":9},{"x":364.7,"y":294.8,"r":12},{"x":311.4,"y":229.1,"r":10.5},{"x":125,"y":283.9,"r":7.5},{"x":308.4,"y":222.6,"r":9},{"x":257,"y":341.4,"r":10.5},{"x":62,"y":251.5,"r":7.5},{"x":62,"y":344.5,"r":7.5},{"x":291.8,"y":278.1,"r":4.5},{"x":68,"y":234,"r":4.5},{"x":366.5,"y":303,"r":6},{"x":258.5,"y":348.8,"r":6},{"x":271,"y":321.5,"r":3},{"x":302,"y":246,"r":3},{"x":330.5,"y":262.5,"r":3},{"x":279.5,"y":285,"r":3},{"x":410,"y":163.5,"r":3},{"x":341,"y":229.5,"r":3},{"x":332,"y":232.5,"r":3},{"x":359,"y":235.5,"r":3},{"x":68,"y":241.5,"r":3},{"x":293,"y":247.5,"r":3},{"x":386,"y":280.5,"r":3},{"x":221,"y":292.5,"r":3},{"x":266,"y":298.5,"r":3}],"tex":[0,0.007813,0.007813,0.293457,0.279785],"quad":[-0.02,0,456.5,434.67]},
-  {"id":"east:world:diner","name":"Diner (east)","cat":"Shops & services","kind":"venue","w":489,"h":358,"ax":246.5,"ay":237.5,"boxes":[{"hx":2.53,"hy":4.81,"dx":-0.09,"dy":-0.01}],"solid":2,"big":true,"door":true,"cost":29980,"glows":[{"x":241.8,"y":180.6,"r":202.5},{"x":60.1,"y":249.8,"r":28.5},{"x":457.9,"y":73.9,"r":54},{"x":295.2,"y":243.9,"r":30},{"x":412.2,"y":190.2,"r":37.5},{"x":231.5,"y":283.6,"r":25.5},{"x":139,"y":291.5,"r":25.5},{"x":129.5,"y":268,"r":21},{"x":245.4,"y":259.1,"r":18},{"x":422,"y":229.8,"r":10.5},{"x":429.4,"y":171.9,"r":21},{"x":213.5,"y":325.4,"r":10.5},{"x":334.8,"y":210.3,"r":12},{"x":322.7,"y":276.8,"r":10.5},{"x":438.5,"y":86.8,"r":16.5},{"x":407.8,"y":144.5,"r":12},{"x":246.9,"y":227.2,"r":15},{"x":441.9,"y":156.8,"r":10.5},{"x":439.9,"y":45.6,"r":10.5},{"x":358.3,"y":200.4,"r":9},{"x":437.3,"y":115.7,"r":7.5},{"x":387.5,"y":251.5,"r":12},{"x":445.5,"y":19.7,"r":13.5},{"x":230.2,"y":228.3,"r":7.5},{"x":362,"y":176.6,"r":9},{"x":220,"y":242.9,"r":7.5},{"x":301.5,"y":195,"r":6},{"x":453.2,"y":138.8,"r":9},{"x":393.5,"y":262.8,"r":9},{"x":401.6,"y":224.3,"r":10.5},{"x":196.5,"y":244.5,"r":7.5},{"x":390,"y":152,"r":6},{"x":33.5,"y":231,"r":6},{"x":190.5,"y":279,"r":9},{"x":421.5,"y":137.1,"r":4.5},{"x":376.5,"y":184.5,"r":7.5},{"x":267.3,"y":213.3,"r":6},{"x":362.1,"y":235.5,"r":6},{"x":343.5,"y":240.9,"r":7.5},{"x":196.5,"y":258.9,"r":4.5},{"x":197.7,"y":308.7,"r":6},{"x":21,"y":203.3,"r":4.5},{"x":267,"y":240,"r":3},{"x":109.5,"y":262.5,"r":4.5},{"x":297.5,"y":274.5,"r":4.5},{"x":462,"y":7.5,"r":3},{"x":444,"y":129,"r":3},{"x":463.5,"y":150,"r":3}],"tex":[0,0.007813,0.53125,0.258789,0.714844],"quad":[-0.13,0,489,357.81]},
-  {"id":"east:world:snack_bar","name":"Snack Bar (east)","cat":"Landmarks","kind":"venue","w":415.3,"h":338.3,"ax":210.8,"ay":237.3,"boxes":[{"hx":2.95,"hy":2.95,"dx":0.04,"dy":0.13}],"solid":2,"big":true,"door":true,"cost":42570,"glows":[{"x":229.3,"y":58,"r":63},{"x":346.1,"y":228.4,"r":36},{"x":391.1,"y":206.8,"r":27},{"x":184.3,"y":24.6,"r":16.5},{"x":261.6,"y":188.9,"r":16.5},{"x":257,"y":264.7,"r":34.5},{"x":214.3,"y":295.5,"r":22.5},{"x":296.6,"y":173.7,"r":16.5},{"x":221.4,"y":247.2,"r":21},{"x":282.9,"y":276.8,"r":16.5},{"x":203.9,"y":116.8,"r":19.5},{"x":322.7,"y":161.1,"r":12},{"x":341.1,"y":154.3,"r":10.5},{"x":389,"y":168.7,"r":9},{"x":276.8,"y":239.1,"r":10.5},{"x":315,"y":263.6,"r":10.5},{"x":294,"y":255.5,"r":9},{"x":92.7,"y":243.5,"r":12},{"x":83.5,"y":215.6,"r":7.5},{"x":236.9,"y":263.9,"r":6},{"x":375.8,"y":201.7,"r":7.5},{"x":196.8,"y":134.2,"r":6},{"x":30.4,"y":169,"r":4.5},{"x":214.4,"y":266.9,"r":6},{"x":96.4,"y":197.7,"r":6},{"x":142.6,"y":218.3,"r":6},{"x":296.9,"y":234.5,"r":4.5},{"x":191.1,"y":240.1,"r":6},{"x":262.4,"y":109.4,"r":4.5},{"x":408.4,"y":158.6,"r":4.5},{"x":122.9,"y":208.4,"r":4.5},{"x":166.7,"y":228.8,"r":4.5},{"x":248.1,"y":122.2,"r":4.5},{"x":10.5,"y":158.9,"r":3},{"x":49.5,"y":176.9,"r":3},{"x":70.5,"y":185.9,"r":3},{"x":75,"y":214.4,"r":4.5},{"x":202.4,"y":142.4,"r":3},{"x":307.4,"y":223.4,"r":3},{"x":93,"y":217.4,"r":3},{"x":200.9,"y":301.4,"r":3}],"tex":[0,0.398438,0.734375,0.57666,0.879395],"quad":[-0.31,0,415.3,338.18]},
-  {"id":"east:world:video","name":"Video (east)","cat":"Landmarks","kind":"venue","w":406,"h":309.5,"ax":205.2,"ay":207,"boxes":[{"hx":3.28,"hy":2.83,"dx":-0.01,"dy":0.05}],"solid":2,"big":true,"door":true,"cost":43800,"glows":[{"x":234.6,"y":247.9,"r":42},{"x":356,"y":182.3,"r":33},{"x":255.7,"y":169.1,"r":15},{"x":293.1,"y":147.1,"r":12},{"x":274.8,"y":157.6,"r":12},{"x":91.1,"y":232,"r":15},{"x":220.5,"y":199,"r":12},{"x":363.4,"y":124.1,"r":10.5},{"x":320.5,"y":134.9,"r":10.5},{"x":57.9,"y":173.9,"r":9},{"x":312.1,"y":173.1,"r":6},{"x":353.5,"y":174.8,"r":6},{"x":294.8,"y":181.1,"r":6},{"x":233.1,"y":228.2,"r":6},{"x":305.5,"y":141,"r":9},{"x":294,"y":250.5,"r":7.5},{"x":265.3,"y":198.9,"r":4.5},{"x":256.9,"y":202.5,"r":7.5},{"x":313.3,"y":213.9,"r":6},{"x":277,"y":172.5,"r":6},{"x":287.5,"y":210.5,"r":4.5},{"x":290.5,"y":240.5,"r":4.5},{"x":322,"y":148.5,"r":3},{"x":292,"y":165,"r":3},{"x":308.5,"y":183,"r":3},{"x":281.5,"y":195,"r":3},{"x":325,"y":214.5,"r":3},{"x":386.5,"y":130.5,"r":3},{"x":377.5,"y":151.5,"r":3},{"x":311.5,"y":154.5,"r":3},{"x":332.5,"y":157.5,"r":3},{"x":305.5,"y":157.5,"r":3},{"x":299.5,"y":160.5,"r":3},{"x":386.5,"y":172.5,"r":3},{"x":281.5,"y":187.5,"r":3},{"x":56.5,"y":187.5,"r":3},{"x":269.5,"y":190.5,"r":3},{"x":308.5,"y":193.5,"r":3},{"x":296.5,"y":205.5,"r":3},{"x":212.5,"y":220.5,"r":3},{"x":269.5,"y":235.5,"r":3},{"x":233.5,"y":241.5,"r":3},{"x":122.5,"y":244.5,"r":3},{"x":215.5,"y":265.5,"r":3},{"x":233.5,"y":283.5,"r":3}],"tex":[0,0.703125,0.53125,0.914551,0.692383],"quad":[-0.45,0,406,309.76]},
+  {"id":"east:world:diner","name":"Diner (east)","cat":"Shops & services","kind":"venue","w":489,"h":358,"ax":246.5,"ay":237.5,"boxes":[{"hx":2.53,"hy":4.81,"dx":-0.09,"dy":-0.01}],"solid":2,"big":true,"door":true,"cost":29980,"glows":[{"x":241.8,"y":180.6,"r":202.5},{"x":60.1,"y":249.8,"r":28.5},{"x":457.9,"y":73.9,"r":54},{"x":295.2,"y":243.9,"r":30},{"x":412.2,"y":190.2,"r":37.5},{"x":231.5,"y":283.6,"r":25.5},{"x":139,"y":291.5,"r":25.5},{"x":129.5,"y":268,"r":21},{"x":245.4,"y":259.1,"r":18},{"x":422,"y":229.8,"r":10.5},{"x":429.4,"y":171.9,"r":21},{"x":213.5,"y":325.4,"r":10.5},{"x":334.8,"y":210.3,"r":12},{"x":322.7,"y":276.8,"r":10.5},{"x":438.5,"y":86.8,"r":16.5},{"x":407.8,"y":144.5,"r":12},{"x":246.9,"y":227.2,"r":15},{"x":441.9,"y":156.8,"r":10.5},{"x":439.9,"y":45.6,"r":10.5},{"x":358.3,"y":200.4,"r":9},{"x":437.3,"y":115.7,"r":7.5},{"x":387.5,"y":251.5,"r":12},{"x":445.5,"y":19.7,"r":13.5},{"x":230.2,"y":228.3,"r":7.5},{"x":362,"y":176.6,"r":9},{"x":220,"y":242.9,"r":7.5},{"x":301.5,"y":195,"r":6},{"x":453.2,"y":138.8,"r":9},{"x":393.5,"y":262.8,"r":9},{"x":401.6,"y":224.3,"r":10.5},{"x":196.5,"y":244.5,"r":7.5},{"x":390,"y":152,"r":6},{"x":33.5,"y":231,"r":6},{"x":190.5,"y":279,"r":9},{"x":421.5,"y":137.1,"r":4.5},{"x":376.5,"y":184.5,"r":7.5},{"x":267.3,"y":213.3,"r":6},{"x":362.1,"y":235.5,"r":6},{"x":343.5,"y":240.9,"r":7.5},{"x":196.5,"y":258.9,"r":4.5},{"x":197.7,"y":308.7,"r":6},{"x":21,"y":203.3,"r":4.5},{"x":267,"y":240,"r":3},{"x":109.5,"y":262.5,"r":4.5},{"x":297.5,"y":274.5,"r":4.5},{"x":462,"y":7.5,"r":3},{"x":444,"y":129,"r":3},{"x":463.5,"y":150,"r":3}],"tex":[0,0.523438,0.296875,0.774414,0.480469],"quad":[-0.13,0,489,357.81]},
+  {"id":"east:world:snack_bar","name":"Snack Bar (east)","cat":"Landmarks","kind":"venue","w":415.3,"h":338.3,"ax":210.8,"ay":237.3,"boxes":[{"hx":2.95,"hy":2.95,"dx":0.04,"dy":0.13}],"solid":2,"big":true,"door":true,"cost":42570,"glows":[{"x":229.3,"y":58,"r":63},{"x":346.1,"y":228.4,"r":36},{"x":391.1,"y":206.8,"r":27},{"x":184.3,"y":24.6,"r":16.5},{"x":261.6,"y":188.9,"r":16.5},{"x":257,"y":264.7,"r":34.5},{"x":214.3,"y":295.5,"r":22.5},{"x":296.6,"y":173.7,"r":16.5},{"x":221.4,"y":247.2,"r":21},{"x":282.9,"y":276.8,"r":16.5},{"x":203.9,"y":116.8,"r":19.5},{"x":322.7,"y":161.1,"r":12},{"x":341.1,"y":154.3,"r":10.5},{"x":389,"y":168.7,"r":9},{"x":276.8,"y":239.1,"r":10.5},{"x":315,"y":263.6,"r":10.5},{"x":294,"y":255.5,"r":9},{"x":92.7,"y":243.5,"r":12},{"x":83.5,"y":215.6,"r":7.5},{"x":236.9,"y":263.9,"r":6},{"x":375.8,"y":201.7,"r":7.5},{"x":196.8,"y":134.2,"r":6},{"x":30.4,"y":169,"r":4.5},{"x":214.4,"y":266.9,"r":6},{"x":96.4,"y":197.7,"r":6},{"x":142.6,"y":218.3,"r":6},{"x":296.9,"y":234.5,"r":4.5},{"x":191.1,"y":240.1,"r":6},{"x":262.4,"y":109.4,"r":4.5},{"x":408.4,"y":158.6,"r":4.5},{"x":122.9,"y":208.4,"r":4.5},{"x":166.7,"y":228.8,"r":4.5},{"x":248.1,"y":122.2,"r":4.5},{"x":10.5,"y":158.9,"r":3},{"x":49.5,"y":176.9,"r":3},{"x":70.5,"y":185.9,"r":3},{"x":75,"y":214.4,"r":4.5},{"x":202.4,"y":142.4,"r":3},{"x":307.4,"y":223.4,"r":3},{"x":93,"y":217.4,"r":3},{"x":200.9,"y":301.4,"r":3}],"tex":[0,0.460938,0.507813,0.65332,0.664551],"quad":[0.03,0,415.3,338.33]},
+  {"id":"east:world:video","name":"Video (east)","cat":"Landmarks","kind":"venue","w":406,"h":309.5,"ax":205.2,"ay":207,"boxes":[{"hx":3.28,"hy":2.83,"dx":-0.01,"dy":0.05}],"solid":2,"big":true,"door":true,"cost":43800,"glows":[{"x":234.6,"y":247.9,"r":42},{"x":356,"y":182.3,"r":33},{"x":255.7,"y":169.1,"r":15},{"x":293.1,"y":147.1,"r":12},{"x":274.8,"y":157.6,"r":12},{"x":91.1,"y":232,"r":15},{"x":220.5,"y":199,"r":12},{"x":363.4,"y":124.1,"r":10.5},{"x":320.5,"y":134.9,"r":10.5},{"x":57.9,"y":173.9,"r":9},{"x":312.1,"y":173.1,"r":6},{"x":353.5,"y":174.8,"r":6},{"x":294.8,"y":181.1,"r":6},{"x":233.1,"y":228.2,"r":6},{"x":305.5,"y":141,"r":9},{"x":294,"y":250.5,"r":7.5},{"x":265.3,"y":198.9,"r":4.5},{"x":256.9,"y":202.5,"r":7.5},{"x":313.3,"y":213.9,"r":6},{"x":277,"y":172.5,"r":6},{"x":287.5,"y":210.5,"r":4.5},{"x":290.5,"y":240.5,"r":4.5},{"x":322,"y":148.5,"r":3},{"x":292,"y":165,"r":3},{"x":308.5,"y":183,"r":3},{"x":281.5,"y":195,"r":3},{"x":325,"y":214.5,"r":3},{"x":386.5,"y":130.5,"r":3},{"x":377.5,"y":151.5,"r":3},{"x":311.5,"y":154.5,"r":3},{"x":332.5,"y":157.5,"r":3},{"x":305.5,"y":157.5,"r":3},{"x":299.5,"y":160.5,"r":3},{"x":386.5,"y":172.5,"r":3},{"x":281.5,"y":187.5,"r":3},{"x":56.5,"y":187.5,"r":3},{"x":269.5,"y":190.5,"r":3},{"x":308.5,"y":193.5,"r":3},{"x":296.5,"y":205.5,"r":3},{"x":212.5,"y":220.5,"r":3},{"x":269.5,"y":235.5,"r":3},{"x":233.5,"y":241.5,"r":3},{"x":122.5,"y":244.5,"r":3},{"x":215.5,"y":265.5,"r":3},{"x":233.5,"y":283.5,"r":3}],"tex":[0,0.226563,0.507813,0.437988,0.668945],"quad":[-0.45,0,406,309.76]},
 ];
 /** the east-facing art of the front shops: [front sprite id, east sprite id]. lettering.ts draws a flipped front as its east sprite, unflipped */
-export const EAST_PAIRS: [string, string][] = [["ref:building-corner-shop","east:ref:building-corner-shop"],["ref:building-corner-store","east:ref:building-corner-store"],["ref:building-gas-canopy","east:ref:building-gas-canopy"],["ref:building-grocery","east:ref:building-grocery"],["town:bakery","east:town:bakery"],["town:barber","east:town:barber"],["town:fish_tackle","east:town:fish_tackle"],["town:grocery","east:town:grocery"],["town:laundromat","east:town:laundromat"],["town:pharmacy","east:town:pharmacy"],["town:postoffice","east:town:postoffice"],["world:diner","east:world:diner"],["world:snack_bar","east:world:snack_bar"],["world:video","east:world:video"]];
+export const EAST_PAIRS: [string, string][] = [["ref:building-gas-canopy","east:ref:building-gas-canopy"],["town:bakery","east:town:bakery"],["town:barber","east:town:barber"],["town:fish_tackle","east:town:fish_tackle"],["town:grocery","east:town:grocery"],["town:laundromat","east:town:laundromat"],["town:pharmacy","east:town:pharmacy"],["town:postoffice","east:town:postoffice"],["world:diner","east:world:diner"],["world:snack_bar","east:world:snack_bar"],["world:video","east:world:video"]];
 /** Append after the cars, on their own supplemental pages: each east item is its front mirrored, so drawn unflipped it is the front flipped. */
 export function appendEast(library: LibItem[], pages: string[][]) {
   const first = pages.length; pages.push(...PAGES);
-  // a removed east view goes too: its front (the id without 'east:') is removed, or the east id itself
-  for (const item of ITEMS) if (!removed.has(item.id) && !removed.has(item.id.replace(/^east:/, ''))) library.push({ ...item, tex: [first + item.tex[0], ...item.tex.slice(1)] as LibItem["tex"] });
+  // a removed east view goes too: its front (the id without "east:") is removed, or the east id itself
+  for (const item of ITEMS) if (!removed.has(item.id) && !removed.has(item.id.replace(/^east:/, ""))) library.push({ ...item, tex: [first + item.tex[0], ...item.tex.slice(1)] as LibItem["tex"] });
 }

diff --git a/tests/lettering.test.ts b/tests/lettering.test.ts
@@ -7,6 +7,9 @@ import { LotMap, type Lot } from '../src/game/lots/lots';
 import { compose, type ComposeState } from '../src/game/lots/compose';
 import { hasLettering, LETTERING_IDS, EAST_FACING } from '../src/game/lots/lettering';
 import { EAST_PAIRS } from '../src/game/east-library';
+import { REMOVED_IDS } from '../src/game/lots/scales';
+/** the fronts of the 14 east pictures in art/east-facing */
+const EAST_FRONTS = ['ref:building-corner-shop', 'ref:building-corner-store', 'ref:building-gas-canopy', 'ref:building-grocery', 'town:bakery', 'town:barber', 'town:fish_tackle', 'town:grocery', 'town:laundromat', 'town:pharmacy', 'town:postoffice', 'world:diner', 'world:snack_bar', 'world:video'];
 import { LU, LV } from '../src/game/lots/town';
 import { LIBRARY } from '../src/game/library';
 import { BUSINESSES } from '../src/game/business/catalogue';
@@ -71,10 +74,12 @@ test('a lettering sprite is never drawn flipped: commercial and tour lots facing
 });
 
 test('east-facing art: each pair is a library sprite of its front\'s kind and category, the front mirrored (ax, boxes, quad), with lettering', () => {
-  assert.equal(EAST_PAIRS.length, 14, `${EAST_PAIRS.length} east-facing shops`);
+  // the 14 east pictures, less those whose front the owner removed in the studio (prep-east leaves them out)
+  assert.equal(EAST_PAIRS.length, 14 - EAST_FRONTS.filter(id => REMOVED_IDS.includes(id)).length, `${EAST_PAIRS.length} east-facing shops`);
   assert.equal(new Set(EAST_PAIRS.map(p => p[1])).size, EAST_PAIRS.length, 'each east sprite once');
   const near = (a: number, b: number) => Math.abs(a - b) < 0.011;
-  for (const [front, east] of EAST_PAIRS) {
+  // a front the owner removed in the studio takes its east view with it (REMOVED_IDS): neither is in the library
+  for (const [front, east] of EAST_PAIRS.filter(([fr]) => !REMOVED_IDS.includes(fr))) {
     const f = byId.get(front), e = byId.get(east);
     assert.ok(f, `${front} is in the library`);
     assert.ok(e, `${east} is in the library`);
@@ -88,7 +93,9 @@ test('east-facing art: each pair is a library sprite of its front\'s kind and ca
     assert.ok(near(e.ax, f.w - f.ax), `${east} anchor ${e.ax} is the front's ${f.ax} mirrored`);
     assert.equal(e.ay, f.ay, `${east} anchor height`);
     assert.deepEqual(e.boxes, f.boxes.map(b => ({ hx: b.hy, hy: b.hx, dx: b.dy, dy: b.dx })), `${east} boxes swapped`);
-    assert.ok(near(e.quad[0], f.w - f.quad[2]) && near(e.quad[2], f.w - f.quad[0]) && e.quad[1] === f.quad[1] && e.quad[3] === f.quad[3], `${east} quad mirrored`);
+    // (the trims are re-cut on every atlas pack: half a pixel either way)
+    const px = (a: number, b: number) => Math.abs(a - b) < 0.5;
+    assert.ok(px(e.quad[0], f.w - f.quad[2]) && px(e.quad[2], f.w - f.quad[0]) && px(e.quad[1], f.quad[1]) && px(e.quad[3], f.quad[3]), `${east} quad mirrored`);
     assert.ok(near(e.tex[3] - e.tex[1], f.tex[3] - f.tex[1]) && near(e.tex[4] - e.tex[2], f.tex[4] - f.tex[2]), `${east} is drawn at the front's mip-0 size`);
     assert.ok(hasLettering(east, e.name) && lettered(east), `${east} carries lettering: never flipped`);
   }

diff --git a/tests/compose.test.ts b/tests/compose.test.ts
@@ -326,15 +326,15 @@ function digest(c: Composition): string {
   return h.toString(16).padStart(8, '0');
 }
 
-test('compositions are pinned: digests of fixed seeds (re-pinned 2026-10-21 for the fence ownership at the higher end, the concrete back yards, lettering never mirrored, CAR_SCALE 0.88 and the cars kept CAR_INSET inside their lots, the studio curation, the straight-on variations left out (frontal.ts), the car park layout (bays 2.75 deep, the eight-way cars), the boundary fences of every use, the old pickup footprints at CAR_SCALE; 2026-10-20 for separate residential boundaries; panels off their line; the studio removals; the leaf drifts at DRIFT_K; the fenced block lots; shops at the street front)', () => {
+test('compositions are pinned: digests of fixed seeds (re-pinned 2026-10-21 for the second studio curation, the fence ownership at the higher end, the concrete back yards, lettering never mirrored, CAR_SCALE 0.88 and the cars kept CAR_INSET inside their lots, the studio curation, the straight-on variations left out (frontal.ts), the car park layout (bays 2.75 deep, the eight-way cars), the boundary fences of every use, the old pickup footprints at CAR_SCALE; 2026-10-20 for separate residential boundaries; panels off their line; the studio removals; the leaf drifts at DRIFT_K; the fenced block lots; shops at the street front)', () => {
   const CASES: [number, ComposeState, string][] = [
-    [0, { use: LU.COM, level: LV.BUILT, decline: 0, seed: 123456 }, '476ad19e'],
+    [0, { use: LU.COM, level: LV.BUILT, decline: 0, seed: 123456 }, '60d3d1e6'],
     [7, { use: LU.COM, level: LV.UPGRADED, decline: 1, seed: 271828 }, '83408906'],
     [15, { use: LU.COM, level: LV.BUILT, decline: 2, seed: 987654 }, '85b72e29'],
     [30, { use: LU.COM, level: LV.BUILT, decline: 3, seed: 42 }, '86100265'],
     [4, { use: LU.COM, level: LV.BUILDING, decline: 0, seed: 5 }, '784f67fd'],
     [20, { use: LU.RES, level: LV.BUILT, decline: 0, seed: 555555 }, 'a79013ae'],
-    [22, { use: LU.IND, level: LV.BUILT, decline: 0, seed: 777777 }, '5ea65aa6'],
+    [22, { use: LU.IND, level: LV.BUILT, decline: 0, seed: 777777 }, 'b3840d76'],
   ];
   for (const [, st] of CASES) assert.ok(!isCarPark(st), `${JSON.stringify(st)} is a car park`);
   assert.deepEqual(CASES.map(([i, st]) => digest(compose(LOTS[i], st))), CASES.map(c => c[2]));
